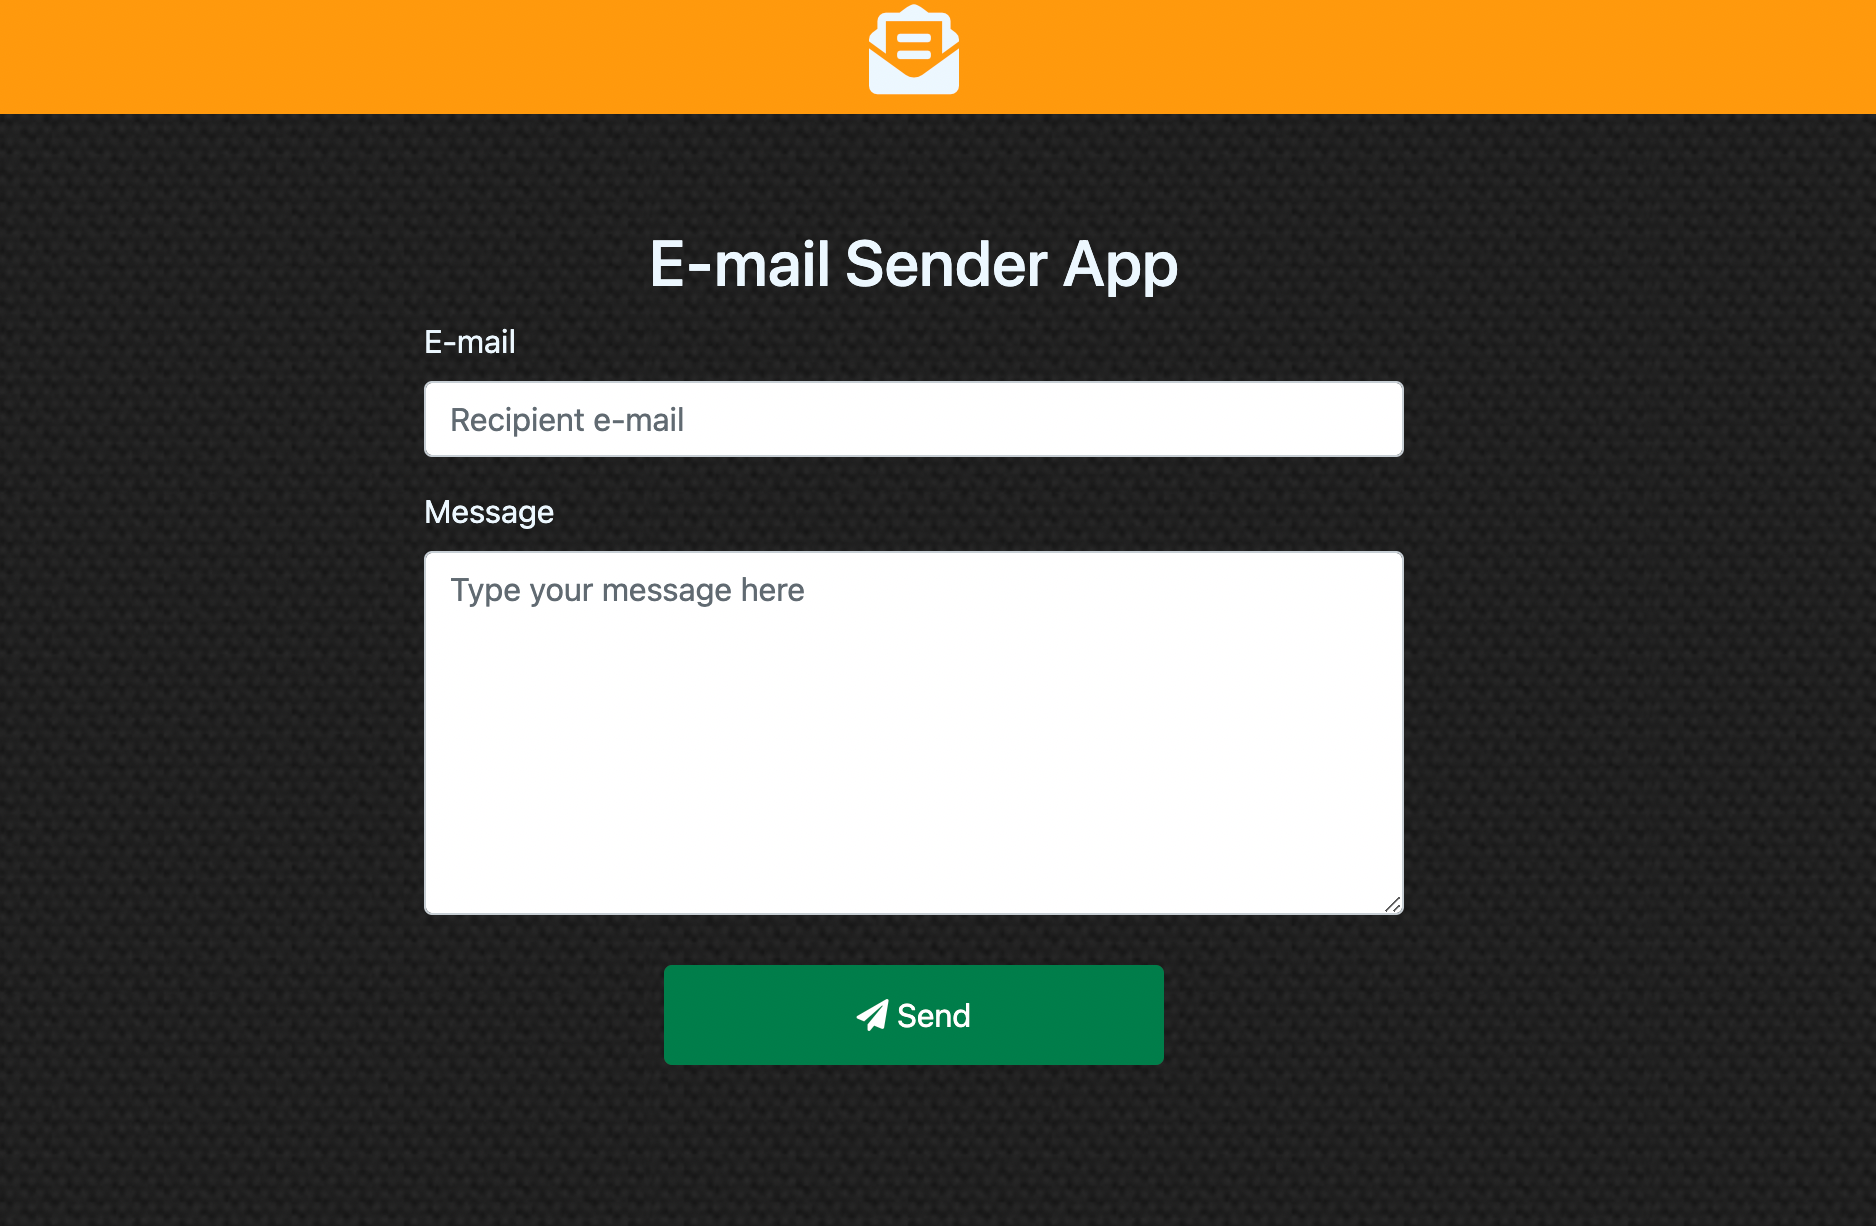
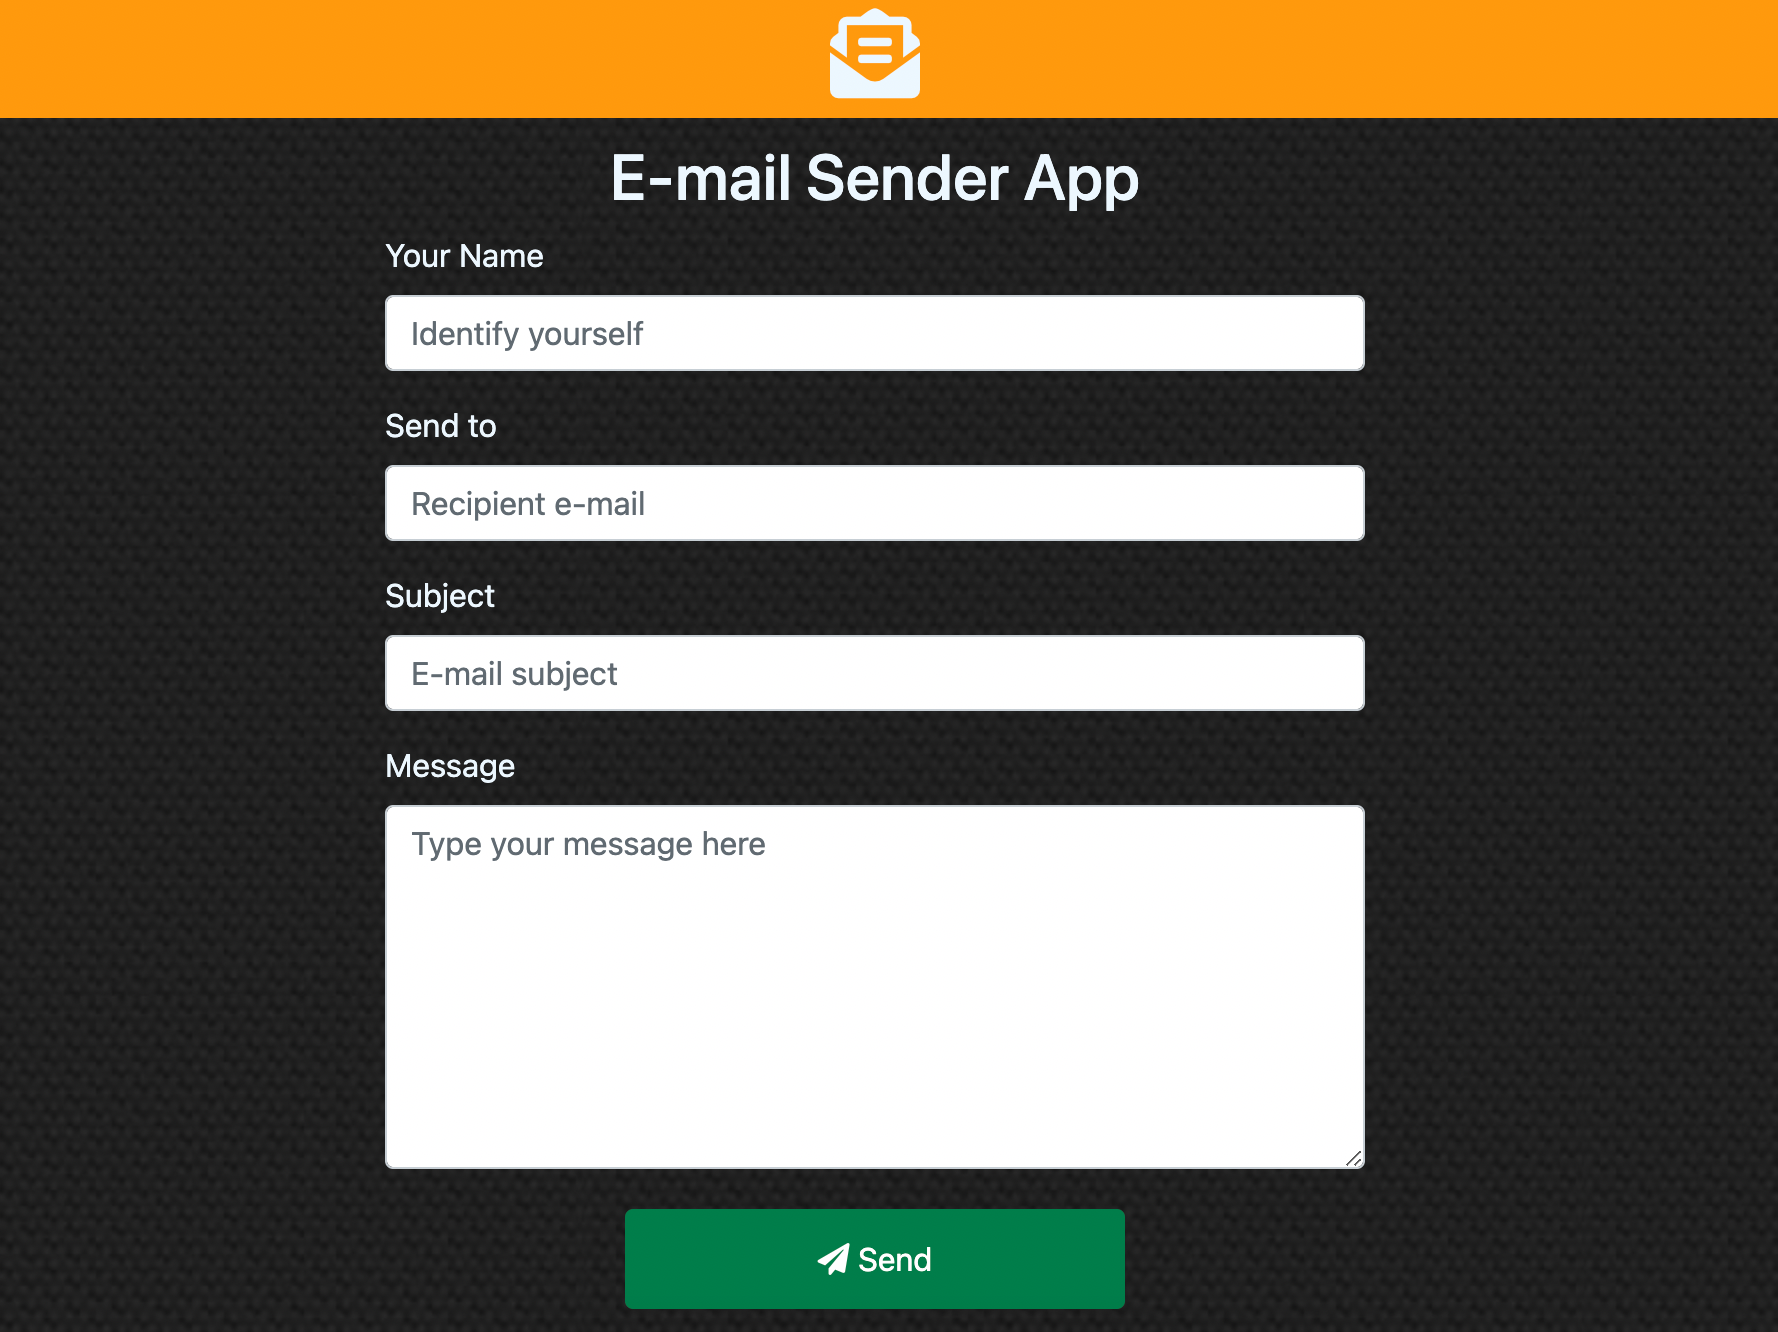
Adding new form fields

Changed region(s): [[0.2165, 0.186, 0.7733, 0.9918], [0.0, 0.0, 1.0, 0.155]]

diff --git a/src/views/index.html b/src/views/index.html
@@ -21,8 +21,16 @@
       <h2>E-mail Sender App</h2>
       <form action="send" method="post">
         <div>
-          <label for="email" class="form-label">E-mail</label>
+          <label for="name" class="form-label">Your Name</label>
+          <input type="text" id="name" name="name" class="form-control" placeholder="Identify yourself" />
+        </div>
+        <div>
+          <label for="email" class="form-label">Send to</label>
           <input type="email" id="email" name="email" class="form-control" placeholder="Recipient e-mail" />
+        </div>
+        <div>
+          <label for="subject" class="form-label">Subject</label>
+          <input type="text" id="subject" name="subject" class="form-control" placeholder="E-mail subject" />
         </div>
         <div>
           <label for="message" class="form-label">Message</label>

diff --git a/public/assets/style.css b/public/assets/style.css
@@ -26,7 +26,7 @@ input[type="email"] {
 
 .container {
     width: auto;
-    margin: 50px auto;
+    margin: 5px auto;
     padding: 5px;
     border-radius: 15px;
 }
@@ -36,7 +36,7 @@ input[type="email"] {
 }
 
 .send {
-    margin-top: 25px;
+    margin-top: 20px;
     text-align: center;
 }
 
